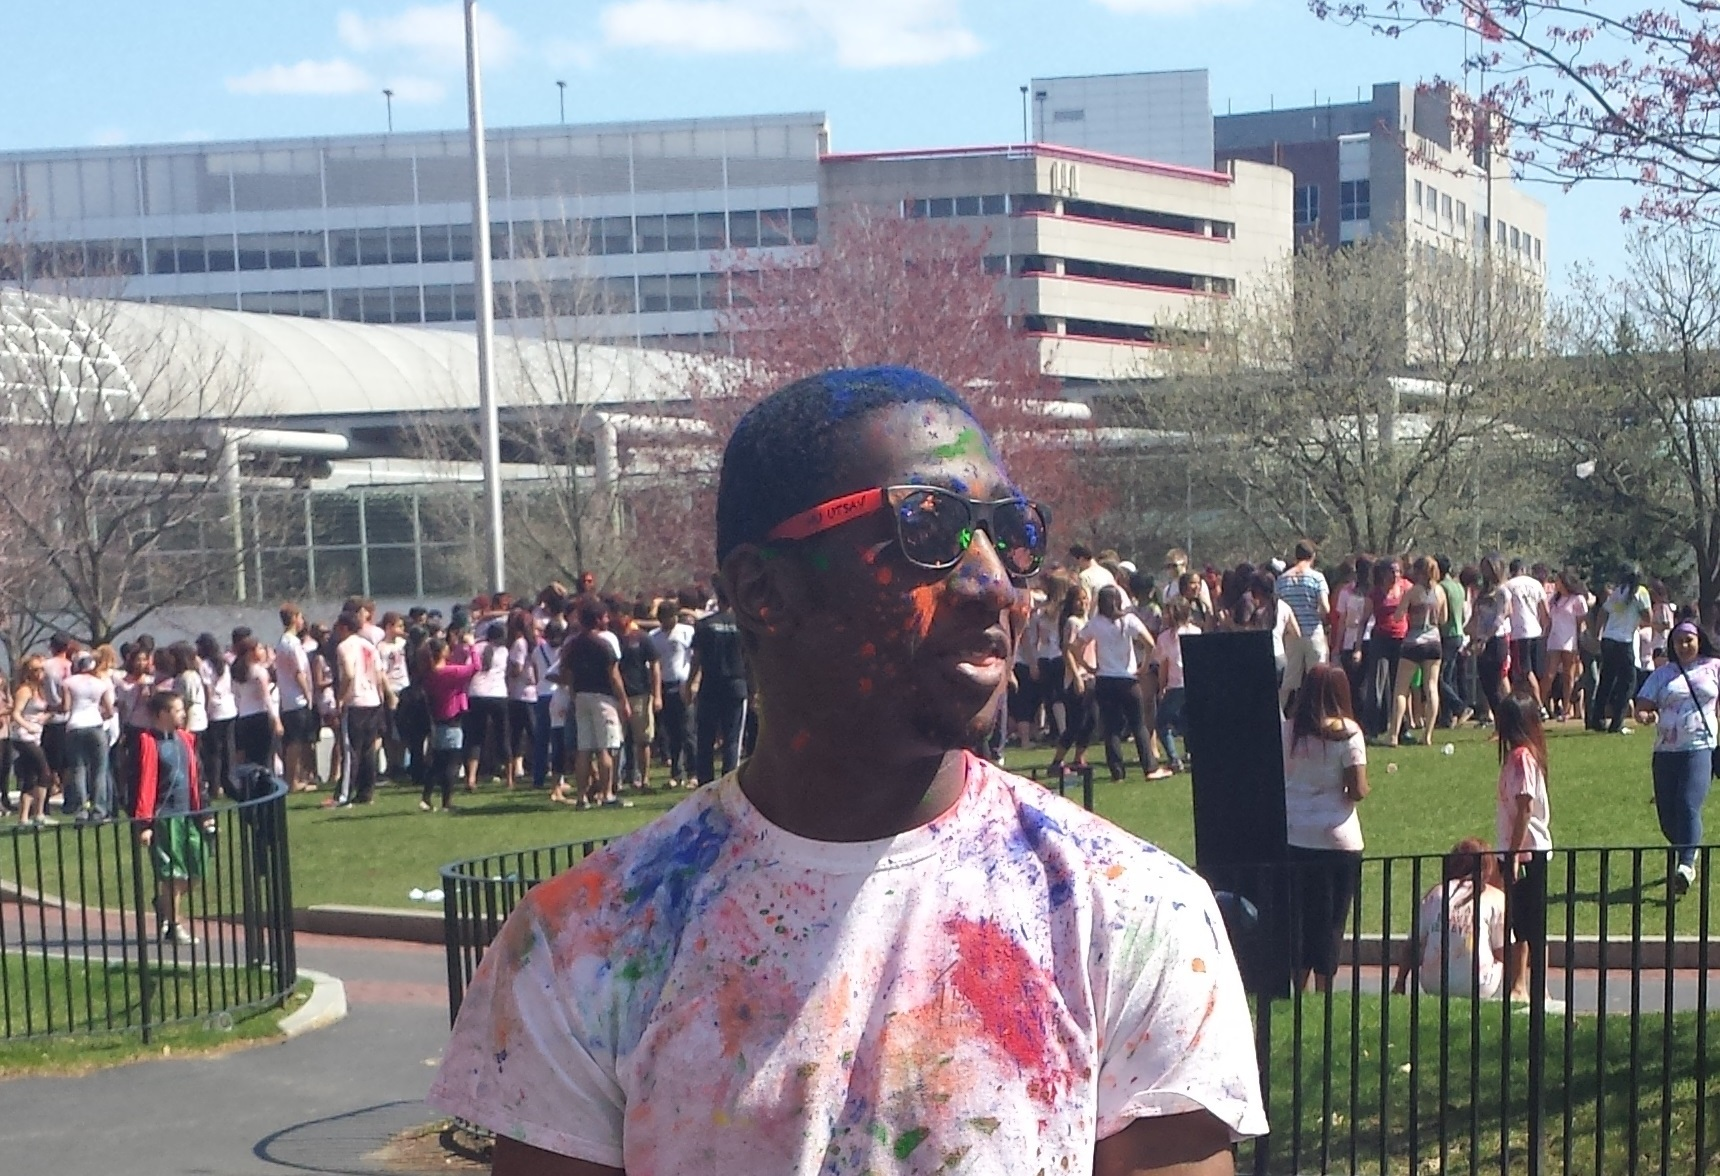
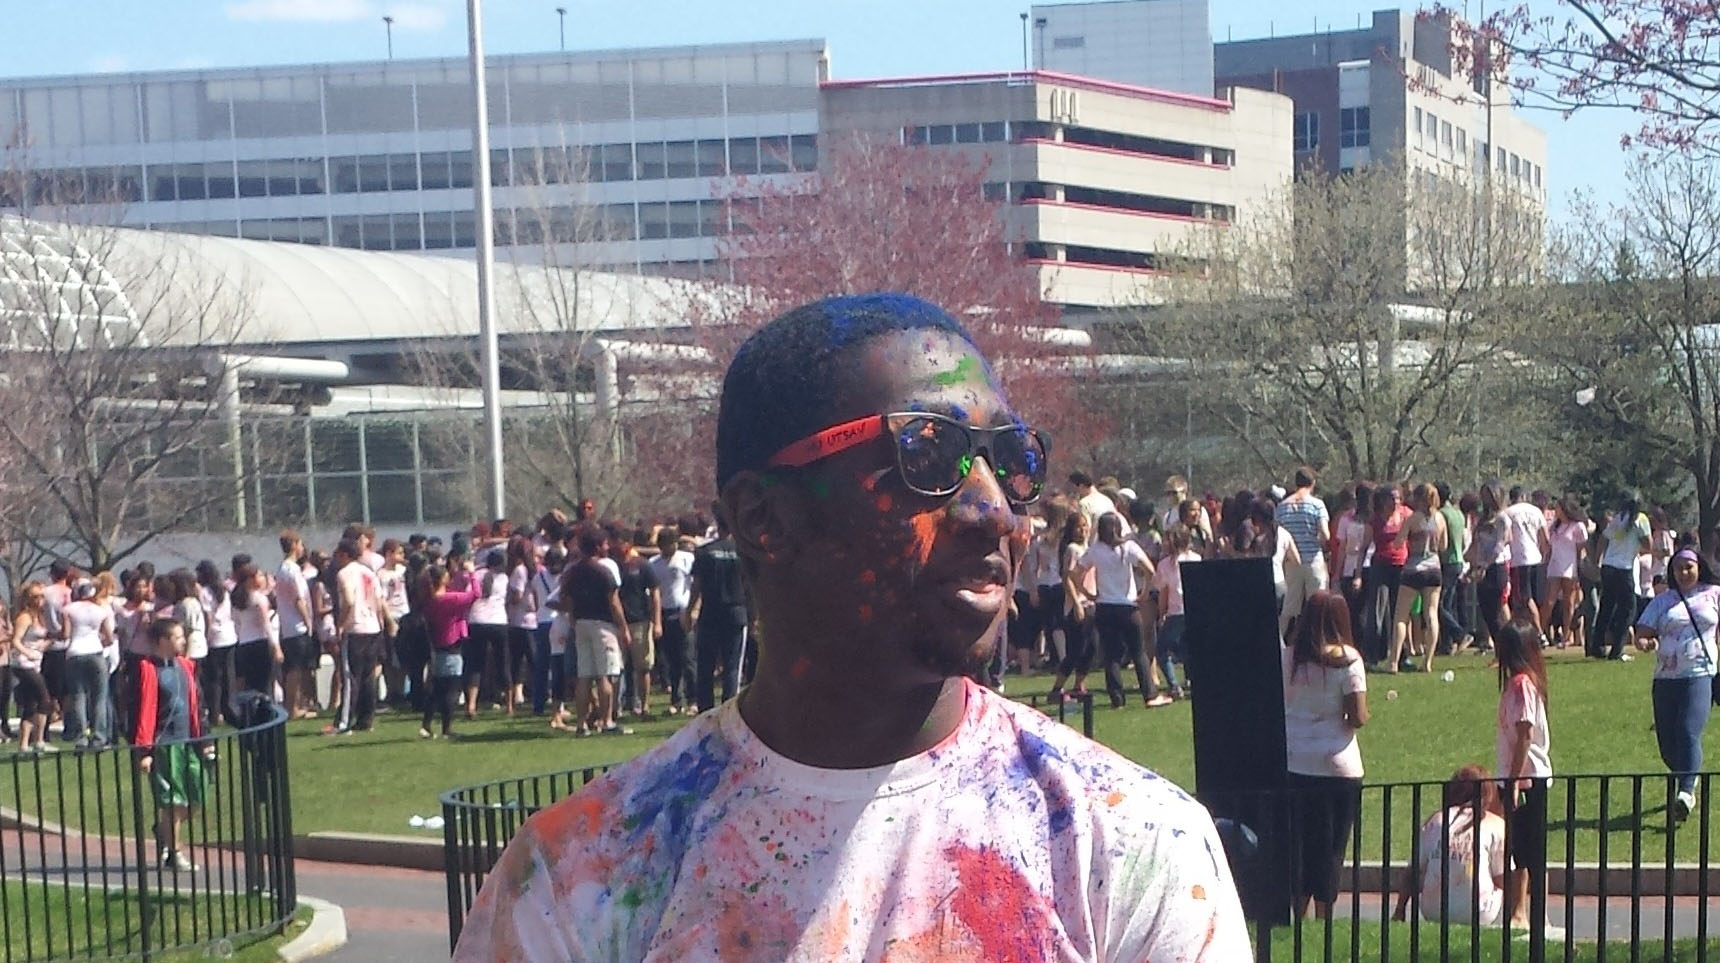
Got that dev asset, cropped my picture and now waiting on Beatrice's final approval

diff --git a/public/js/alfred-material.js b/public/js/alfred-material.js
@@ -243,7 +243,7 @@ app.controller('HomeCtrl', function($scope) {
     desc: ["I\'m a full-stack web developer who happens to write lots of Javascript. ",
           "I started off building apps with Ruby on Rails and have moved on to" +
           " Node and Express. What you\'re looking at right now was actually built with " +
-          "Node and Express, and a generous amount of Angular. Check out my other work here"],
+          "Node and Express, and a generous amount of Angular. Check out my other work <a href=\"/code\">here</a>"],
     link: ""
   }];
 
@@ -306,4 +306,4 @@ app.controller('HomeCtrl', function($scope) {
   });
  
 }(angular));
[2 lines of base64/hex data omitted]

diff --git a/views/home/home.js b/views/home/home.js
@@ -16,7 +16,7 @@ app.controller('HomeCtrl', function($scope) {
     desc: ["I\'m a full-stack web developer who happens to write lots of Javascript. ",
           "I started off building apps with Ruby on Rails and have moved on to" +
           " Node and Express. What you\'re looking at right now was actually built with " +
-          "Node and Express, and a generous amount of Angular. Check out my other work here"],
+          "Node and Express, and a generous amount of Angular. Check out my other work <a href=\"/code\">here</a>"],
     link: ""
   }];
 

diff --git a/views/home/home.html b/views/home/home.html
@@ -15,6 +15,7 @@
       </md-card>
 
       <md-card id="developer">
+      <img class="card-image" src="./imgs/codeghost.png">
         <md-card-content flex class="card-corners card-text">
           <div>
             <h2 class="md-display-1">{{hobbies[2].name}}</h2>
